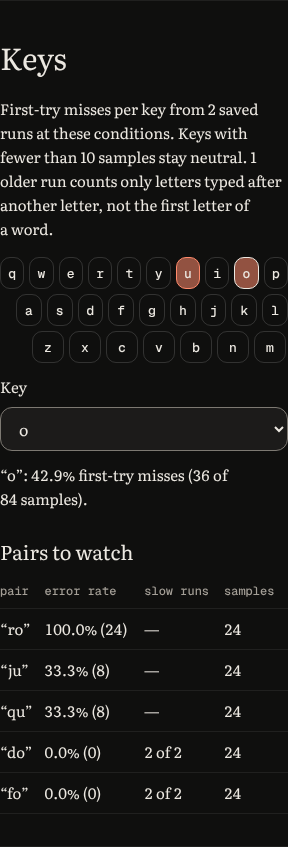
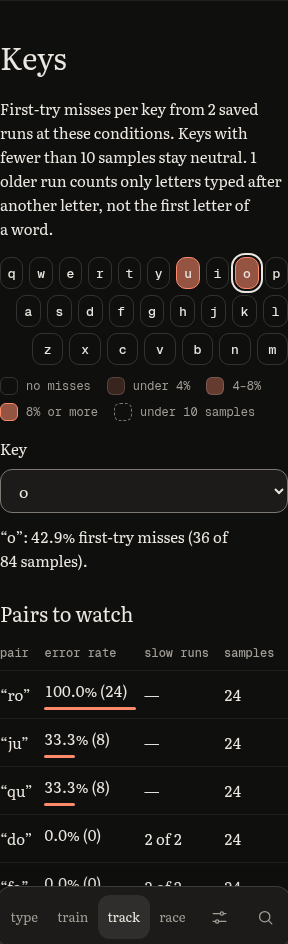
Regenerate the Keys screenshots after the theme fade settles
The section is now short enough that its screenshot landed inside the
350ms body background fade after switching colour scheme, so captures
came out half-faded. Screenshots now finish transitions before capture.

diff --git a/e2e/key-heatmap.spec.js b/e2e/key-heatmap.spec.js
@@ -122,10 +122,10 @@ test('Progress shows a per-key miss heatmap and ranked pairs with sample counts'
   const section = page.locator('section[aria-labelledby="keys-heading"]');
   await section.scrollIntoViewIfNeeded();
   await page.emulateMedia({ colorScheme: 'dark' });
-  await section.screenshot({ path: shot(testInfo, 'keys-dark.png') });
+  await section.screenshot({ path: shot(testInfo, 'keys-dark.png'), animations: 'disabled' });
   await page.emulateMedia({ colorScheme: 'light' });
   await expect(page.locator('html')).toHaveAttribute('data-theme', 'light');
-  await section.screenshot({ path: shot(testInfo, 'keys-light.png') });
+  await section.screenshot({ path: shot(testInfo, 'keys-light.png'), animations: 'disabled' });
 });
 
 // Custom text is never mined (metric contract): a custom run full of missed "o"s leaves the heatmap,
@@ -196,7 +196,7 @@ test.describe('coarse pointer at 320px', () => {
 
     await page.emulateMedia({ colorScheme: 'dark' });
     await section.evaluate((node) => node.scrollIntoView({ block: 'start' }));
-    await section.screenshot({ path: shot(testInfo, 'keys-mobile-dark.png') });
+    await section.screenshot({ path: shot(testInfo, 'keys-mobile-dark.png'), animations: 'disabled' });
     await expect(select).toBeVisible();
   });
 });
